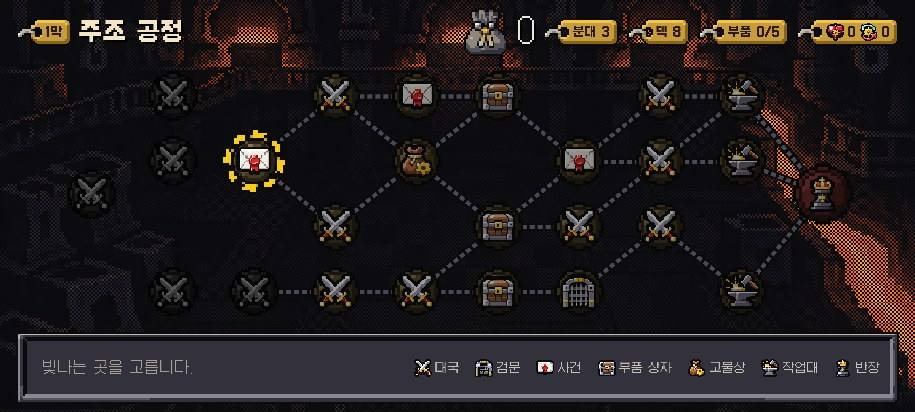
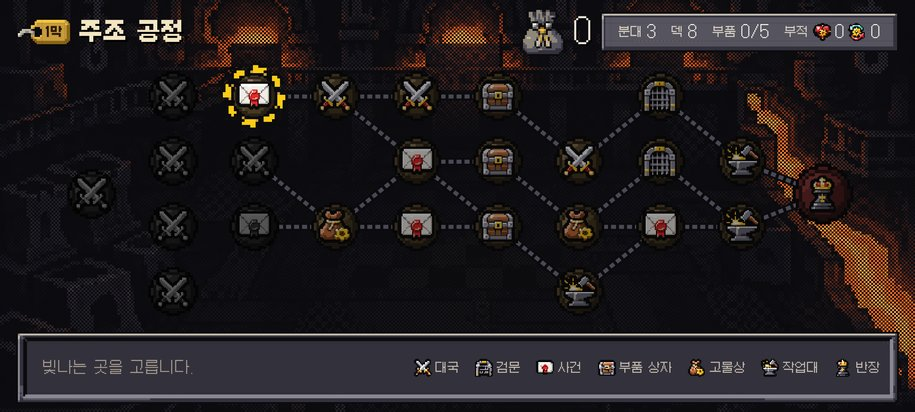
Record D-398 and refresh art guide shots for event result FX and map plate
- D-398: 사건 결과 FX 박자 · 디더 가장자리 · 손패 톱니 · 지도 수치 명판 · 꼬리표 역할 정리와 21위 발주를 기록.
- 디자인 문법(5장 결과 알림 · 7.1 역할 그룹 · 고칠 목록)에 반영, 그래픽 정본용 촬영 4장 교체 · 추가(아티팩트 갱신은 하지 않음).

Claude-Session: https://claude.ai/code/session_011jC4ZCDKW43H5FzLWnYVpe

diff --git a/tools/artguide/build.py b/tools/artguide/build.py
@@ -63,7 +63,7 @@ BOSS_FRAMES = [('boss-600.jpg', '0.6초 · 모으기와 조명'), ('boss-1000.jp
                ('boss-1700.jpg', '1.7초 · 기물이 조각으로 부서짐'), ('boss-2200.jpg', '2.2초 · 파편 · 불씨'), ('boss-2900.jpg', '2.9초 · 여운')]
 
 SCREENS = [
-    ('출하 흐름', [('title.jpg', '타이틀 — 공장 배경 · 정품 폰 도장 · 붉은 사선 · 로고'), ('menu-gears.jpg', '메뉴 — 오른쪽 아래 맞물려 도는 도트 톱니 (D-225)'), ('map1.jpg', '1막 지도 (D-397) — 불투명 바닥(막 표지 덮기 + 2×2 먹 디더) · 머리 줄 막 꼬리표 · 이름 24 · 지갑 + 꼬리표 · 갈 곳은 멈춘 황동 톱니 테 · 아래 움푹 칸에 안내 + 범례'), ('map-boss.jpg', '지도 노드 미리보기 (D-388 · D-397) — 고른 하나만 톱니가 돈다 · 아래 띠 = 아이콘 · 이름 24 · 꼬리표 ≤ 3(적 수 · 보상 · 특성) · 적 명단 · 황동 「진입」'),
+    ('출하 흐름', [('title.jpg', '타이틀 — 공장 배경 · 정품 폰 도장 · 붉은 사선 · 로고'), ('menu-gears.jpg', '메뉴 — 오른쪽 아래 맞물려 도는 도트 톱니 (D-225)'), ('map1.jpg', '1막 지도 (D-397) — 불투명 바닥(막 표지 덮기 + 2×2 먹 디더) · 머리 줄 막 꼬리표 · 이름 24 · 지갑 + 수치 명판 하나(D-398, 임시 철띠 — UI-22 대기) · 갈 곳은 멈춘 황동 톱니 테 · 아래 움푹 칸에 안내 + 범례'), ('map-boss.jpg', '지도 노드 미리보기 (D-388 · D-397) — 고른 하나만 톱니가 돈다 · 아래 띠 = 아이콘 · 이름 24 · 꼬리표 ≤ 3(적 수 · 보상 · 특성) · 적 명단 · 황동 「진입」'),
                  ('map2.jpg', '2막 지도 — A-02'), ('map3.jpg', '3막 지도 — A-03'), ('actintro.jpg', '막 타이틀 카드 (D-388 · D-389 · D-397) — 위 막 그림 덮기 · 아래 먹 바닥에 막 꼬리표 · 이름 36 · 자막 띠 두 줄(서술 + 독백)')]),
     ('대국', [('battle.jpg', '대국 (2막 조립 판) — 왼쪽 손패 카드 · 오른쪽 계기 창 · 붉은 예고선 · HP 예측 숫자. 손패 이름 아래 「어떤 · 효과」 작은 표지, 기본 이동 카드는 표지 없음 (D-332)'),
              ('board-check.jpg', '2막 조립 판 · 검문 적 = 검붉은 쇠 속 칠 (D-224)'),
@@ -156,6 +156,9 @@ AUDIT = [
 UI_AUDIT = [
     ('ui-enemyturn.jpg', '적 차례 띠 — 크롬 진홍 쇠 띠 + 단색 도트 속도선'),
     ('ui-map.jpg', '지도 미리보기 — 키트 꼬리표 · 움푹 칸 · 황동 「진입」 (D-397)'),
+    ('ev-fx-life.jpg', '사건 결과 FX (D-398) — 분대원 카드가 떨고(예비) → 계단 고리 · 별 불똥 · 도트 낱말 「생명 +1」이 2배로 튀어(터짐) → 카드 출렁 · 아래 독백 한 줄'),
+    ('ev-fx-chest.jpg', '사건 결과 FX (D-398) — 지갑에서 나사가 쏟아지고 「나사 -100」 · 부품 상자가 덜컹 → 뚜껑 계단 열림 · 금빛 + 「부품」'),
+    ('ev-fx-edge.jpg', '결과 장면 바탕 (D-398) — 사건 그림 네 변이 24도트 Bayer 먹 점으로 녹는다(반투명 · 그라데이션 없음)'),
     ('cut-prologue.jpg', '컷신 크롬 하나 (D-397) — 그림이 화면을 채우고 아래 자막 띠(UI-08 띠 끝 장식) 줄 둘 · ▼는 띠 안 오른쪽 끝 · 「건너뛴다」 철 단추 아래 오른쪽'),
     ('cut-logo.jpg', '프롤로그 끝 로고 — 「화면을 눌러 출하」도 같은 띠'),
     ('cut-boss.jpg', '반장 등장 — 이름 36 · 칭호 24 · 규칙은 움푹 칸 · 서술 + 대사는 자막 띠 (D-397)'),

diff --git a/docs/design-system.md b/docs/design-system.md
@@ -54,6 +54,9 @@
 - 카드: 강화 = 떨림 → 흰 번쩍 → 다듬은 카드 · 초록 불꽃 / 녹 = 잿빛 · 녹빛 3계단 / 파괴 = 잿빛 → 금 → 쇳조각 · 디더 퇴장 / 새 카드 = 디더 등장.
 - 기물: 피해 = 붉은 번쩍 + HP 채움이 줄고 흰 잔상이 계단으로 따라옴(전투와 같다) / 회복 = 초록 계단 / 진화 = 흰 번쩍 → 새 기물 · 착지 출렁 / 썰림 = 베기 선 → 두 쪽 → 잿빛 · 디더 퇴장.
 - `verdict()` 판결 명패(D-259)는 사건에서 뺐다. 다른 화면에 쓸지는 그 화면을 고칠 때 정한다.
+- **박자 (D-398)**: 예비(떨림 · 번쩍 · 덜컹) → 터짐(계단 고리 3단 · `pxfx` 불똥 · **도트 낱말** — 전투 피해 숫자와 같은 `drawPopup`, 2배 → 1배 계단 튐 · 머묾 · 아래부터 디더 지움) → 출렁(`erLand`). 잃는 결과만 무대가 흔들린다. 낱말 색 = 전투 숫자 약속(얻음 금 · 회복 초록 · 잃음 진홍 · 녹 녹빛). 글 도장 · 꼬리표로 결과를 알리지 않는다.
+- 나사 = 지갑 그림(날아들거나 쏟아짐), 부품을 고르게 됨 = 부품 상자(뚜껑 계단 열림). 독백 한 줄(‘ ’)은 무대 아래 단추 줄 왼쪽 움푹 칸.
+- 장면 그림이 칸 끝에서 끊기지 않게 네 변 24도트를 Bayer 먹 점 가면으로 녹인다(`dither-edge-*`).
 
 ## 6. 확률 장치 — 사각 칸만 (D-260)
 - 흐름: 대화창 + 선택지 → 고르면 오버레이에서 연출(동전은 저절로, 칸은 하나씩 눌러 · 긁어 연다) → 결과 + [확인] → 대화창에서 NPC 마무리 대사 + 나가기.
@@ -83,7 +86,9 @@
 | 창 · 안내창 · 말풍선 · 토스트 | 철판 패널 (`panel`) | 본문 15 갈무리14 |
 | 목록 · 대사 · 용어 칸 | 움푹 칸 (`inset`) | 이름 12 갈무리11 굵게 · 내용 15 갈무리14 |
 | 손짓 · 요령 | 종이 테이프 (`tape`) | 12 갈무리11 굵게 |
-| 이름표(조건 · 보상 · 결과) | 황동 꼬리표 | 12 갈무리11 굵게 |
+| 값을 치르는 것(가격 · 판돈 · 나사 보상) | 황동 꼬리표 (D-398: 꼬리표는 이 역할만) | 12 갈무리11 굵게 |
+| 수치 묶음(머리 줄 분대 · 덱 · 부품 · 부적) | 수치 명판 하나 (UI-22 대기 — 임시 토스트 철띠) | 이름 12 갈무리11 · 값 15 갈무리14 |
+| 머리말(조건 · 보상 · 실패 시 · 새로 열림) · 숫자 하나 · 반장 수치 · 결과 요약 | UI-24 강조 띠 · UI-23 숫자 배지 · UI-21 수배판 · UI-25 결과 쪽지 (21위 발주 — 받기 전 꼬리표 · 움푹 칸) | 12 갈무리11 굵게 |
 | 카드 · 부품 | 카드 얼굴 (`cf`) | 이름 12 굵게 · 설명 12 |
 - 글은 말줄임하지 않는다 — 단어 단위로 줄을 바꾼다(`word-break: keep-all`). 서술은 문장마다 줄을 바꾼다. 조건 · 보상 · 실패 시처럼 나란한 정보는 이름표 + 한 줄씩.
 - 저절로 넘어가는 것은 읽을 시간을 준다: 토스트 = 1.2초 + 글자당 70ms 이상, 막 전환 = 서술이 다 찍힌 뒤 글자당 60ms(최소 2.4초). 누르면 언제든 넘어간다.
@@ -108,4 +113,6 @@
 | **패스 4** — 전투 HUD · 판 위 겹침 | **고침 (D-396)** | 레일 빈칸 · 토스트 · 띠가 각자 자리 · 기물 얼굴을 가리는 숫자 | 구역 셋 · 적 의도 목록 · 상태 띠 한 자리 · 엿보기 · 말풍선 `.talk` · 손패 선택지 판 — 옛 선택자 약 540개 지움 |
 | **패스 5** — 컷신 · 막 카드 · 반장 등장 · 엔딩 · 크레딧 · 지도 | **고침 (D-397)** | 「계속」 · 건너뛰기 자리 셋 · 레터박스 + 반투명 자막 상자 · 64자 자막 · 지도 뒤 전투가 비침 · 움직이는 초점 셋 | 컷신 크롬 하나(`.cut-sub` 띠 끝 장식 · ▼ · 「건너뛴다」) · 줄당 한글 30자 폭 · 막 카드 · 불투명 지도 + `.peek-bar` — 옛 선택자 299개 + 키프레임 44개 지움 |
 | 카드 얼굴 규칙 사다리(`.cf.cf.cf`) · `body.slice .cmd` · `.part-card` · `.ko3` 겹침 | **남김 (D-394 · D-397)** | 같은 선택자 3번 이상 정의 40개 · `!important` | `card-layout.css` 한 단으로 모으기 — 겉모습 비교 촬영과 함께 |
+| 사건 결과 「생명 +1」 꼬리표 도장 · 끊기는 결과 장면 바탕 · 나사 · 부품 결과 FX 없음 | **고침 (D-398)** | 글 도장 · 칸 끝에서 끊긴 그림 | 대상 위 도트 낱말 + 계단 고리 + 출렁 · 지갑 · 부품 상자 · 디더 가장자리 |
+| 꼬리표 한 모양이 여섯 역할(가격 · 이름 · 수치 묶음 · 숫자 · 머리말 · 알림) | **발주 (D-398, 21위 UI-21 ~ 25)** | 값과 이름이 갈리지 않음 · 지도 머리 줄 꼬리표 넷 | 지도 머리 줄은 명판 하나로 고침(임시 철띠) · 나머지는 받으면 갈아 끼움 |
 | 타이틀 로고 비정수 확대 · 메뉴 세 단추 같은 무게 | **남김 (D-397)** | zoom 1.3 · 1.15 | 로고 ×2 정수 · 오른쪽 세로 목록 하나 (보고서 2-1) |
